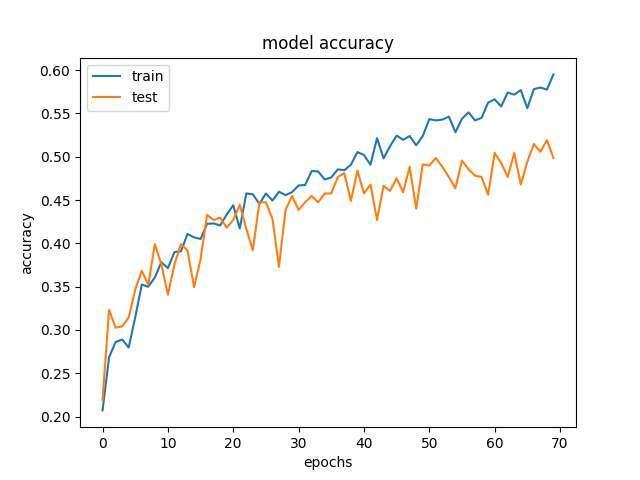
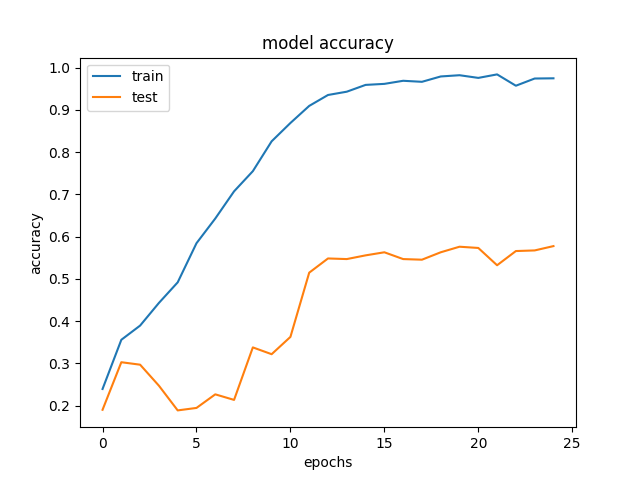
improved accuracy to 57% after batchnormalization

diff --git a/main.py b/main.py
@@ -6,8 +6,9 @@ from keras.layers.core import Activation
 from keras.layers.core import Flatten
 from keras.layers.core import Dense
 from keras import backend as K
-#from keras.layers.core import Dropout
+from keras.layers.core import Dropout
 from keras import regularizers
+from keras.layers import BatchNormalization
 
 
 
@@ -23,25 +24,30 @@ class anime_model:
 			inputShape = (channels, rows, columns)
 			
 		#First Layer
-		model.add(Conv2D(32, 5, padding='same', input_shape=inputShape, 		    
+		model.add(Conv2D(32, 3, padding='same', input_shape=inputShape, 		    
 				activation=activation, use_bias=True))
 		model.add(MaxPooling2D(pool_size=(2,2), strides=(2,2)))
+		model.add(Dropout(0.25))
 		
 		#Second Layer
-		model.add(Conv2D(64, 5, padding='same', input_shape=inputShape, 		    
-				activation=activation, use_bias=True))
+		model.add(Conv2D(64, 3, padding='same', activation=activation))
 		model.add(MaxPooling2D(pool_size=(2,2), strides=(2,2)))
+		model.add(Dropout(0.25))
+		
+		#Third Layer
+		model.add(Conv2D(128, 3, padding='same', activation=activation))
+		model.add(MaxPooling2D(pool_size=(2,2), strides=(2,2)))
+		model.add(Dropout(0.25))
 		
 		
 		#Flatten and FC Layer
 		model.add(Flatten())
-		model.add(Dense(1000, activation=activation, use_bias=True))
-		
-		#Dropout Layer
-		#model.add(Dropout(0.5))
+		model.add(Dense(512, activation=activation))
+		model.add(BatchNormalization())
+		model.add(Dropout(0.5))
 		
 		#Output Layer
-		model.add(Dense(labels, activation='softmax', use_bias=True))
+		model.add(Dense(labels, activation='softmax'))
 		
 		if weightsPath is not None:
 			model.load_weights(weightsPath)
@@ -49,10 +55,6 @@ class anime_model:
 		return model
 	
 		
-	
-
-
-
 
 
 

diff --git a/train.py b/train.py
@@ -6,7 +6,7 @@ import os
 from sklearn.preprocessing import LabelBinarizer
 from sklearn.model_selection import train_test_split
 from keras import backend as K
-from keras.optimizers import SGD
+from keras.optimizers import Adam
 from matplotlib import pyplot as plt
 from keras.preprocessing.image import ImageDataGenerator
 
@@ -19,6 +19,11 @@ def list_all_files(path):
 		for file in f:
 			files.append(os.path.sep.join([r,file]))
 	return files 
+
+def print_summary(data):
+	print(data)
+	f.write(data+"\n")
+	
 
 
 os.environ['TF_FORCE_GPU_ALLOW_GROWTH'] = 'true'
@@ -84,18 +89,26 @@ aug = ImageDataGenerator(
 	fill_mode='nearest'
 )
 
-INIT_LR = 0.01
-EPOCHS = 70
+INIT_LR = 0.001
+EPOCHS = 25
 	
-opt = SGD(lr=INIT_LR, momentum=0.9, decay=INIT_LR / EPOCHS)
+opt = Adam(lr=INIT_LR, decay=INIT_LR / EPOCHS)
+#opt = Adam()
+
 
 model = nn.build(rows=120, columns=120, channels=1, labels=len(lb.classes_), weightsPath=args['load'])
 
-model.compile(loss='categorical_crossentropy', optimizer=opt, metrics=['accuracy'])q
+#Summary of model
+f = open('params.txt','w+')
+model.summary(print_fn=print_summary)
+f.close()
+
+
+model.compile(loss='categorical_crossentropy', optimizer=opt, metrics=['accuracy'])
 
 if args['load'] == None:
 	print('[INFO] training..........')
-	history = model.fit(x=aug.flow(trainX, trainY, batch_size=32), validation_data=(testX, testY), epochs=EPOCHS, verbose=2)
+	history = model.fit(trainX, trainY, batch_size=32, validation_data=(testX, testY), epochs=EPOCHS, verbose=2)
 	
 
 if args['weights'] != None:
